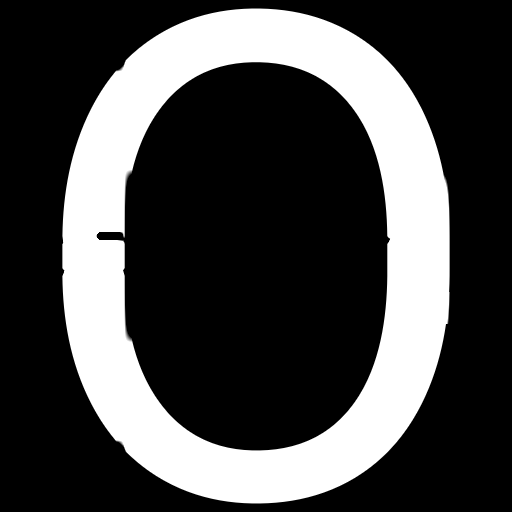
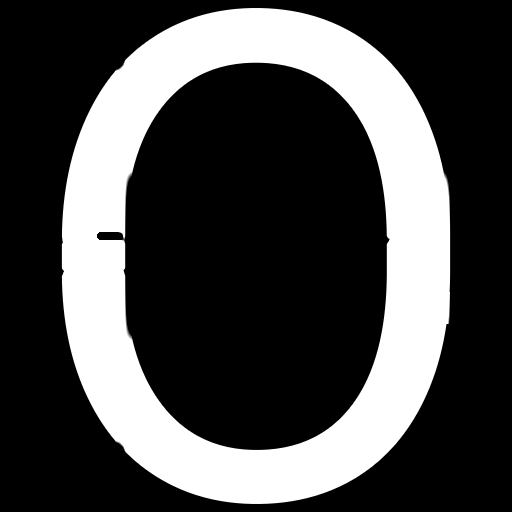
better edge coloring we can almost see it coming together

diff --git a/Msdfgen.Core/SdfRenderer.cs b/Msdfgen.Core/SdfRenderer.cs
@@ -37,8 +37,8 @@ namespace Msdfgen
                     // Compute median (standard MSDF technique)
                     float sd = Median(r, g, b);
                     
-                    // Convert distance to opacity
-                    float opacity = (float)Math.Clamp(distanceMapping.Map(sd) + sdBias, 0.0, 1.0);
+                    // Convert distance to opacity: C++ does distVal(sd+sdBias, mapping) where distVal = clamp(mapping(d)+0.5)
+                    float opacity = (float)Math.Clamp(distanceMapping.Map(sd + sdBias) + 0.5, 0.0, 1.0);
                     
                     // Write to output (single channel grayscale or RGB)
                     output[x, y, 0] = opacity;
@@ -72,7 +72,7 @@ namespace Msdfgen
                     double srcY = (y + 0.5) * scaleY;
                     
                     float sd = InterpolateSingle(sdf, srcX, srcY, 0);
-                    float opacity = (float)Math.Clamp(distanceMapping.Map(sd) + sdBias, 0.0, 1.0);
+                    float opacity = (float)Math.Clamp(distanceMapping.Map(sd + sdBias) + 0.5, 0.0, 1.0);
                     
                     output[x, y, 0] = opacity;
                     if (output.Channels >= 3)

diff --git a/Msdfgen.Cli/Program.cs b/Msdfgen.Cli/Program.cs
@@ -233,6 +233,16 @@ namespace Msdfgen.Cli
             if (mode == Mode.MTSDF || mode == Mode.MSDF)
             {
                 EdgeColoring.EdgeColoringSimple(shape, angleThreshold);
+                
+                // Debug: Print edge colors
+                for (int c = 0; c < shape.Contours.Count; c++)
+                {
+                    var contour = shape.Contours[c];
+                    var colorSet = new HashSet<EdgeColor>();
+                    foreach (var edge in contour.Edges)
+                        colorSet.Add(edge.Color);
+                    Console.WriteLine($"  Contour {c} colors: {string.Join(", ", colorSet)}");
+                }
             }
 
             // Print metrics if requested

diff --git a/Msdfgen.Extensions/obj/Debug/net9.0/Msdfgen.Extensions.AssemblyInfo.cs b/Msdfgen.Extensions/obj/Debug/net9.0/Msdfgen.Extensions.AssemblyInfo.cs
@@ -13,7 +13,7 @@ using System.Reflection;
 [assembly: System.Reflection.AssemblyCompanyAttribute("Msdfgen.Extensions")]
 [assembly: System.Reflection.AssemblyConfigurationAttribute("Debug")]
 [assembly: System.Reflection.AssemblyFileVersionAttribute("1.0.0.0")]
-[assembly: System.Reflection.AssemblyInformationalVersionAttribute("1.0.0+843e99f91bd9403327d1593af724a76e7e43f6cb")]
+[assembly: System.Reflection.AssemblyInformationalVersionAttribute("1.0.0+f2634d24b364f3e7e6213865cbec798ea18a10cb")]
 [assembly: System.Reflection.AssemblyProductAttribute("Msdfgen.Extensions")]
 [assembly: System.Reflection.AssemblyTitleAttribute("Msdfgen.Extensions")]
 [assembly: System.Reflection.AssemblyVersionAttribute("1.0.0.0")]

diff --git a/Msdfgen.Core/obj/Debug/net9.0/Msdfgen.Core.AssemblyInfo.cs b/Msdfgen.Core/obj/Debug/net9.0/Msdfgen.Core.AssemblyInfo.cs
@@ -13,7 +13,7 @@ using System.Reflection;
 [assembly: System.Reflection.AssemblyCompanyAttribute("Msdfgen.Core")]
 [assembly: System.Reflection.AssemblyConfigurationAttribute("Debug")]
 [assembly: System.Reflection.AssemblyFileVersionAttribute("1.0.0.0")]
-[assembly: System.Reflection.AssemblyInformationalVersionAttribute("1.0.0+843e99f91bd9403327d1593af724a76e7e43f6cb")]
+[assembly: System.Reflection.AssemblyInformationalVersionAttribute("1.0.0+f2634d24b364f3e7e6213865cbec798ea18a10cb")]
 [assembly: System.Reflection.AssemblyProductAttribute("Msdfgen.Core")]
 [assembly: System.Reflection.AssemblyTitleAttribute("Msdfgen.Core")]
 [assembly: System.Reflection.AssemblyVersionAttribute("1.0.0.0")]

diff --git a/Msdfgen.Cli/obj/Debug/net9.0/Msdfgen.Cli.AssemblyInfo.cs b/Msdfgen.Cli/obj/Debug/net9.0/Msdfgen.Cli.AssemblyInfo.cs
@@ -13,7 +13,7 @@ using System.Reflection;
 [assembly: System.Reflection.AssemblyCompanyAttribute("Msdfgen.Cli")]
 [assembly: System.Reflection.AssemblyConfigurationAttribute("Debug")]
 [assembly: System.Reflection.AssemblyFileVersionAttribute("1.0.0.0")]
-[assembly: System.Reflection.AssemblyInformationalVersionAttribute("1.0.0+843e99f91bd9403327d1593af724a76e7e43f6cb")]
+[assembly: System.Reflection.AssemblyInformationalVersionAttribute("1.0.0+f2634d24b364f3e7e6213865cbec798ea18a10cb")]
 [assembly: System.Reflection.AssemblyProductAttribute("Msdfgen.Cli")]
 [assembly: System.Reflection.AssemblyTitleAttribute("Msdfgen.Cli")]
 [assembly: System.Reflection.AssemblyVersionAttribute("1.0.0.0")]
